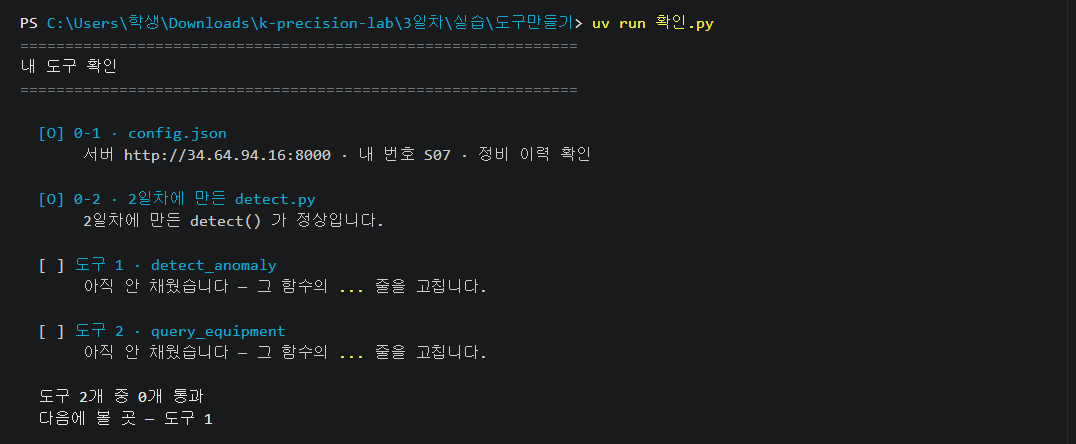
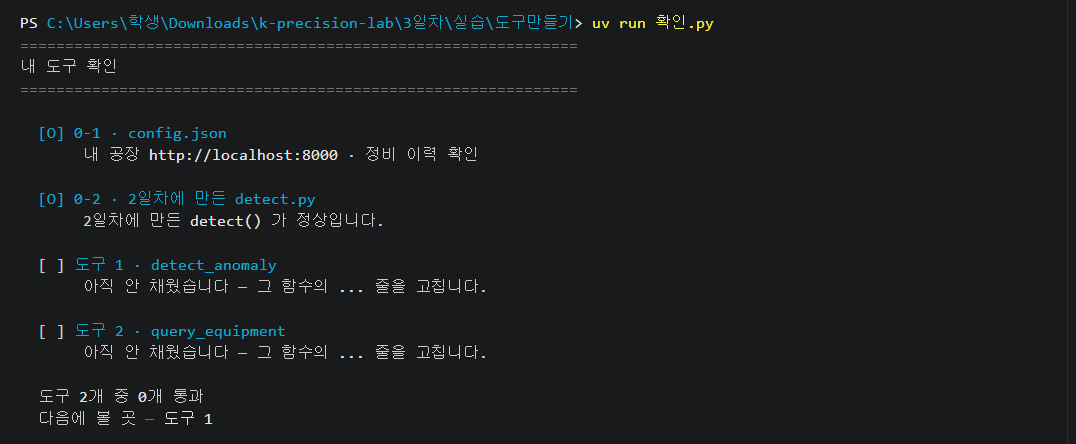
PDF 전쪽 검수: 사진·설명 한 덩어리 고정, 번호 리셋·레거시 그림 수리
세 PDF 41쪽 전부 쪽 단위로 눈검수한 결과 반영.

- md2pdf: 사진+설명 글귀를 figure 한 덩어리로 — 쪽 경계에서 서로
  갈라질 수 없게 구조로 고정 (약한 힌트였던 page-break-after 제거)
- md2pdf: 번호 목록이 사이에 낀 사진 때문에 끊길 때 전부 「1.」로
  리셋되던 것 — 원문 숫자를 <ol start> 로 살림 (준비안내 ③이 2·3·4·5)
- 실습_3_확인.png 재생성: 옛 서버 원고(34.64.94.16 · 내 번호 S07)가
  남아 있던 마지막 그림 — 공장을 실제로 켜고 확인.py 를 돌린
  실측 출력(localhost · 번호 없음)으로 교체. 다른 실습 그림 20장은
  스캔 결과 깨끗함
- 확인.py 문구에서 은퇴한 「번호」 개념 제거
  (「내 공장 http://localhost:8000 · 정비 이력 확인」)
- 배포본은 정답 오염 없이 깨끗하게 재생성 후 최종본 재빌드

diff --git a/제작/빌드도구/md2pdf.py b/제작/빌드도구/md2pdf.py
@@ -107,11 +107,12 @@ blockquote { border-left: 4px solid #f0a500; background: #fffaf0; margin: 16px 0
 blockquote p { margin: 5px 0; }
 
 /* 세로로 긴 캡처가 쪽에 안 들어가면 통째로 다음 쪽에 밀려 큰 공백이 남는다 —
-   높이를 눌러 밀림 자체를 줄이고, 설명 글귀는 그림과 같은 쪽에 붙인다. */
+   높이를 눌러 밀림 자체를 줄인다. 사진+설명은 figure 한 덩어리라
+   쪽 경계에서 서로 갈라지지 않는다. */
+figure { margin: 14px 0 18px; page-break-inside: avoid; break-inside: avoid; }
 img { max-width: 100%; max-height: 90mm; border: 1px solid #c9d2dc;
-      border-radius: 6px; margin: 14px 0 4px;
-      page-break-inside: avoid; page-break-after: avoid; }
-.cap { font-size: 9pt; color: #5a6672; margin: 0 0 18px; }
+      border-radius: 6px; margin: 0 0 4px; display: block; }
+.cap { font-size: 9pt; color: #5a6672; margin: 0; }
 
 /* 작은 단계 ①②③ — 상자를 없앤다. 숨 막히던 원인이 이것이다.
    왼쪽에 짧은 막대 하나만 두고 글씨로 승부한다. */
@@ -240,9 +241,10 @@ md: str, 제목: str, 기준폴더: Path | None = None) -> str:
             if not 경로.is_file():
                 raise SystemExit(f"안내문이 가리키는 그림이 없습니다: {경로}\n"
                                  f"  (원본 캡처를 제작/빌드도구/그림표시.py 로 만들어 두세요)")
-            out.append(f'<img src="{경로.as_uri()}" alt="{html.escape(설명)}">')
-            if 설명:
-                out.append(f'<div class="cap">{html.escape(설명)}</div>')
+            # 사진과 설명 글귀는 한 덩어리 — 쪽 경계에서 따로 갈라지면 안 된다.
+            꼬리 = f'<div class="cap">{html.escape(설명)}</div>' if 설명 else ""
+            out.append(f'<figure><img src="{경로.as_uri()}" '
+                       f'alt="{html.escape(설명)}">{꼬리}</figure>')
             i += 1
             continue
 
@@ -317,11 +319,15 @@ md: str, 제목: str, 기준폴더: Path | None = None) -> str:
             out.append("<ul>" + "".join(f"<li>{인라인(x)}</li>" for x in buf) + "</ul>")
             continue
         elif re.match(r"^\s*\d+\.\s+", line):
+            # 항목 사이에 사진이 끼면 목록이 여기서 끊겼다 다시 시작한다 —
+            # 원문의 숫자를 살려야 「2. 3. 4.」가 전부 「1.」로 리셋되지 않는다.
+            첫숫자 = int(re.match(r"^\s*(\d+)\.", line).group(1))
             buf = []
             while i < len(줄들) and re.match(r"^\s*\d+\.\s+", 줄들[i]):
                 buf.append(re.sub(r"^\s*\d+\.\s+", "", 줄들[i]))
                 i += 1
-            out.append("<ol>" + "".join(f"<li>{인라인(x)}</li>" for x in buf) + "</ol>")
+            시작 = f' start="{첫숫자}"' if 첫숫자 != 1 else ""
+            out.append(f"<ol{시작}>" + "".join(f"<li>{인라인(x)}</li>" for x in buf) + "</ol>")
             continue
         # ── 「안 되면」 카드 ──────────────────────────────────────────────
         #    **화면에 뜬 문구**

diff --git a/강의/3일차/실습/도구만들기/확인.py b/강의/3일차/실습/도구만들기/확인.py
@@ -100,7 +100,7 @@ def 검사_설정() -> tuple[bool, list[str]]:
     # 둘 다 실습 저장소에 미리 채워져 옵니다. 학생이 손으로 적을 값이 아닙니다.
     if not api.strip() or not ten.strip():
         ok = False
-        msg.append("공장 주소와 번호가 비어 있습니다. 이 값은 미리 채워져 옵니다 —")
+        msg.append("공장 주소가 비어 있습니다. 이 값은 미리 채워져 옵니다 —")
         msg.append("    지웠거나 고쳤으면 실습 저장소를 다시 내려받으세요. 안 되면 손 드세요.")
     else:
         if not api.startswith("http"):
@@ -129,7 +129,7 @@ def 검사_설정() -> tuple[bool, list[str]]:
                            "공장 폴더에서  docker compose down -v  뒤  docker compose up -d  로 "
                            "초기화하세요 — 여기가 비면 원인 추정이 안 나옵니다.")
             else:
-                msg.append(f"공장 {api} · 번호 {ten} · 정비 이력 확인")
+                msg.append(f"내 공장 {api} · 정비 이력 확인")
         except Exception as exc:                                 # noqa: BLE001
             ok = False
             msg.append(f"공장에 못 닿습니다 — {type(exc).__name__}. "
